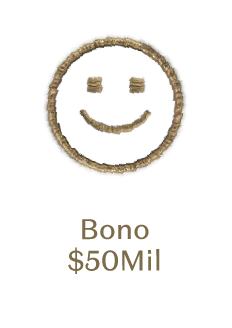
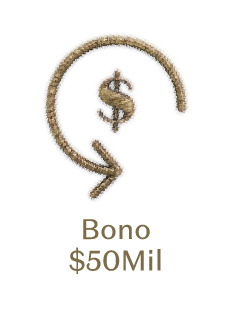
Ajustes de imagenes y funcionalidad

Changed region(s): [[0.1818, 0.0915, 0.8182, 0.6098], [0.2727, 0.7622, 0.697, 0.8537], [0.3333, 0.6707, 0.6667, 0.7317]]

diff --git a/src/App.jsx b/src/App.jsx
@@ -5,19 +5,24 @@ import Modal from 'react-modal';
 import title from './assets/title.png';
 import pointer from './assets/pointer.png';
 import bono50 from './assets/bono_50_mil.png';
+import bono50_2 from './assets/bono_50_mil_white.png';
 import ramo_de_flores from './assets/ramo_de_flores.png';
+import kit_de_muestras from './assets/kit_de_muestras.png';
+import kit_de_muestras_2 from './assets/kit_de_muestras_white.png';
 import spa_de_manos from './assets/spa_de_manos.png';
 
 const data = [
-  { option: 'bono50', image: { uri: bono50, sizeMultiplier: 1.2 }, alt: "Bono 50 mil" },
-  { option: 'ramo_de_flores', image: { uri: ramo_de_flores, sizeMultiplier: 1.2 }, alt: "Ramo de flores" },
   { option: 'spa_de_manos', image: { uri: spa_de_manos, sizeMultiplier: 1.2 }, alt: "Spa de manos" },
   { option: 'bono50', image: { uri: bono50, sizeMultiplier: 1.2 }, alt: "Bono 50 mil" },
+  { option: 'kit_de_muestras_2', image: { uri: kit_de_muestras_2, sizeMultiplier: 1.2 }, alt: "Kit de Muestras", originalImage: kit_de_muestras },
+  { option: 'bono50_2', image: { uri: bono50, sizeMultiplier: 1.2 }, alt: "Bono 50 mil", originalImage: bono50 },
   { option: 'ramo_de_flores', image: { uri: ramo_de_flores, sizeMultiplier: 1.2 }, alt: "Ramo de flores" },
-  { option: 'spa_de_manos', image: { uri: spa_de_manos, sizeMultiplier: 1.2 }, alt: "Spa de manos" },
-  { option: 'bono50', image: { uri: bono50, sizeMultiplier: 1.2 }, alt: "Bono 50 mil" },
+  { option: 'bono50', image: { uri: bono50_2, sizeMultiplier: 1.2 }, alt: "Bono 50 mil" },
+  { option: 'kit_de_muestras', image: { uri: kit_de_muestras, sizeMultiplier: 1.2 }, alt: "Kit de Muestras" },
   { option: 'ramo_de_flores', image: { uri: ramo_de_flores, sizeMultiplier: 1.2 }, alt: "Ramo de flores" },
 ];
+
+
 
 Modal.setAppElement('#root');
 
@@ -72,20 +77,20 @@ function App() {
           Girar la Ruleta
         </button>
         <Modal
-          isOpen={isModalOpen}
-          onRequestClose={closeModal}
-          contentLabel="Premio Ganado"
-          className="modal"
-          overlayClassName="overlay"
-        >
-          <h2 className='modal-h2'>Premio Ganado</h2>
-          <img
-            src={data[prizeNumber].image.uri} // Usa la propiedad `image.uri` para mostrar la imagen
-            alt={data[prizeNumber].alt} // Usa la propiedad `alt` para el texto alternativo
-            style={{ width: '100%', height: 'auto' }} // Ajusta el tamaño de la imagen
-          />
-          <button onClick={closeModal}>Cerrar</button>
-        </Modal>
+  isOpen={isModalOpen}
+  onRequestClose={closeModal}
+  contentLabel="Premio Ganado"
+  className="modal"
+  overlayClassName="overlay"
+>
+  <h2 className='modal-h2'>Premio Ganado</h2>
+  <img
+    src={data[prizeNumber].originalImage || data[prizeNumber].image.uri}
+    alt={data[prizeNumber].alt} 
+    style={{ width: '100%', height: 'auto' }} 
+  />
+  <button onClick={closeModal}>Cerrar</button>
+</Modal>
       </div>
     </>
   );

diff --git a/index.html b/index.html
@@ -2,7 +2,7 @@
 <html lang="en">
   <head>
     <meta charset="UTF-8" />
-    <link rel="icon" type="image/svg+xml" href="/vite.svg" />
+    <link rel="icon" type="image/svg+xml" href="https://www.oboticario.com.co/cdn/shop/files/icon_96x96_f8bcd54a-0023-4c44-ad46-4dd13b970fec_96x96.webp?v=1671562013" />
     <meta name="viewport" content="width=device-width, initial-scale=1.0" />
     <title>Ruleta O'Boticario</title>
   </head>
